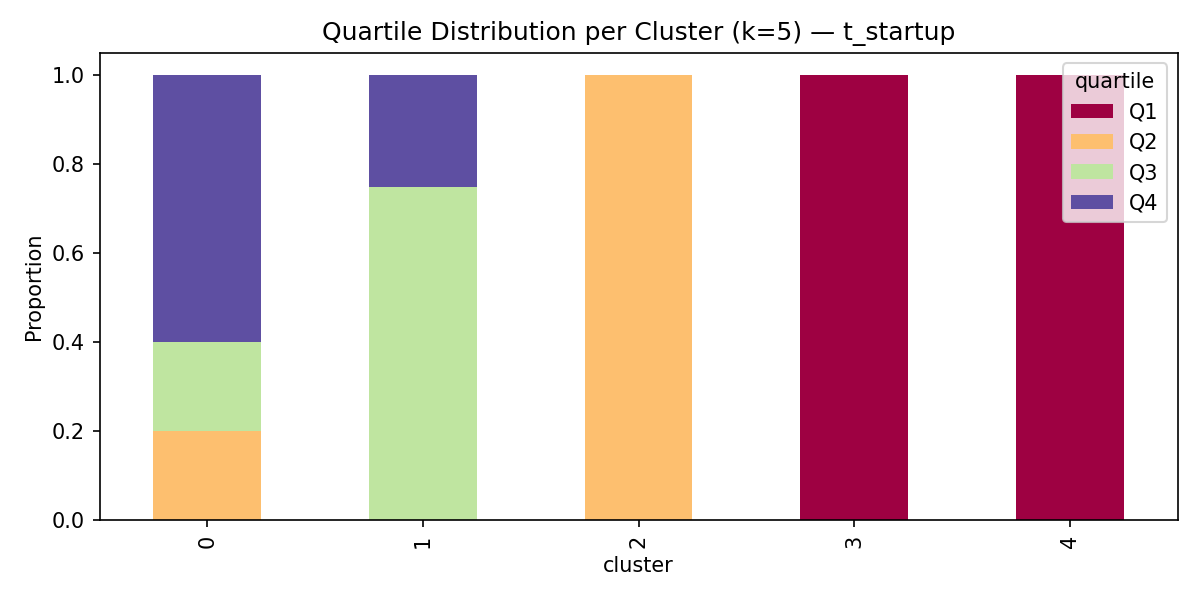
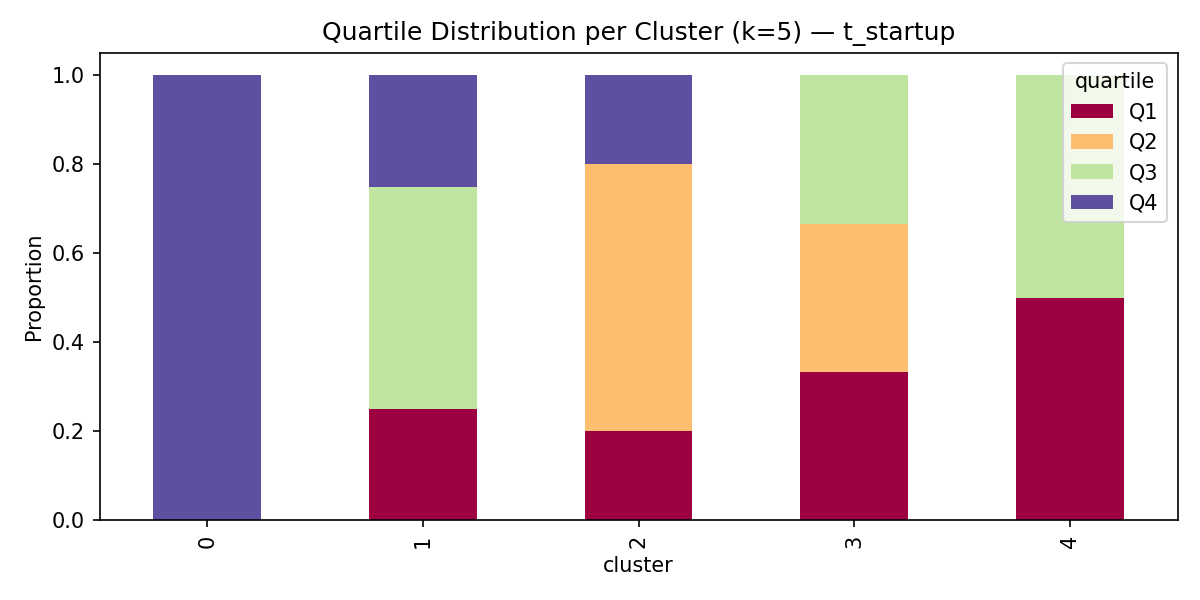
updated postprocesing + postprocessed Tseeded 6params

diff --git a/ddstartup/postprocessing/postprocess_functions.py b/ddstartup/postprocessing/postprocess_functions.py
@@ -18,6 +18,8 @@ except ImportError:
 def find_latest_output_folder(outputs_dir):
     """
     Find the most recent output folder in the outputs directory.
+    Prioritizes folders with timestamp prefixes (YYYYMMDD_HHMMSS format),
+    then falls back to filesystem creation time.
     
     Args:
         outputs_dir: Path to outputs directory
@@ -25,14 +27,29 @@ def find_latest_output_folder(outputs_dir):
     Returns:
         Tuple of (folder_path, h5_files) or (None, None) if not found
     """
+    import re
+    
     # Find all directories (excluding hidden dirs)
     folders = [d for d in outputs_dir.iterdir() if d.is_dir() and not d.name.startswith('.')]
     
     if not folders:
         return None, None
     
-    # Sort by modification time, most recent first
-    folders.sort(key=lambda x: x.stat().st_mtime, reverse=True)
+    # Sort by timestamp in folder name if present, otherwise by creation time
+    def sort_key(path):
+        # Try to extract timestamp from folder name (YYYYMMDD_HHMMSS format)
+        match = re.match(r'(\d{8})_(\d{6})', path.name)
+        if match:
+            # Return timestamp as sortable string (YYYYMMDDHHMMSS)
+            return (1, match.group(1) + match.group(2))  # Priority 1 (highest)
+        else:
+            # Fall back to filesystem creation time for folders without timestamp
+            stat = path.stat()
+            # Use st_birthtime if available (macOS), otherwise st_mtime (best proxy on Linux)
+            ctime = getattr(stat, 'st_birthtime', stat.st_mtime)
+            return (0, ctime)  # Priority 0 (lower than named folders)
+    
+    folders.sort(key=sort_key, reverse=True)
     latest_folder = folders[0]
     
     # Find HDF5 files in the latest folder
@@ -282,8 +299,17 @@ def get_input_parameters(df, target_variable, filename=None):
             REMOVE_PARAMS = ['tau_ifc', 'tau_ofc']
     if target_variable == 't_startup':
         REMOVE_PARAMS += ['eta_th', 'capacity_factor', 'cost_of_electricity','P_aux', 'P_aux_DT_eq']
-    input_parameters = [p for p in input_parameters if p not in REMOVE_PARAMS]
-    return input_parameters
+    
+    # Filter out constant parameters (zero variance)
+    # This automatically excludes parameters with a single value across all samples
+    varying_params = []
+    for param in input_parameters:
+        if param not in REMOVE_PARAMS and param in df.columns:
+            # Check if parameter varies (std > threshold to account for floating point errors)
+            if df[param].std() > 1e-10:
+                varying_params.append(param)
+    
+    return varying_params
 
 def scale_target(df, target_variable):
     if target_variable == 'unrealized_profits':
@@ -305,11 +331,16 @@ def scale_target(df, target_variable):
 
 def get_discrete_colorscale(n_chunks):
     """
-    Returns a Plotly-compatible discrete colorscale from green to red.
+    Returns a Plotly-compatible discrete colorscale from blue to orange/red.
+    
+    This colorblind-friendly palette works for ~99% of people, including those
+    with red-green colorblindness (deuteranopia/protanopia).
+    
+    Color progression: Blue (good) → Teal → Yellow → Orange → Red (bad)
     
     Logic:
     - If n_chunks <= 7: Uses base colors with interpolation for smooth transitions
-    - If n_chunks > 7: Uses matplotlib's RdYlGn_r colormap for more colors
+    - If n_chunks > 7: Uses matplotlib's RdYlBu_r colormap for more colors
     
     Args:
         n_chunks: Number of discrete color bins
@@ -317,24 +348,25 @@ def get_discrete_colorscale(n_chunks):
     Returns:
         List of [fraction, color] pairs for Plotly colorscale
     """
-    # Improved vibrant green to red (darker green for better visibility)
+    # Colorblind-friendly blue to orange/red palette
+    # Based on ColorBrewer's RdYlBu reversed, optimized for accessibility
     base_colors = [
-        "#66FF00",  # lime green
-        "#00CC00",  # vivid green
-        "#CCFF00",  # yellow-green
-        "#FFFF00",  # yellow
-        "#FFCC00",  # gold
-        "#FF6600",  # orange
-        "#FF0000",  # red
+        "#2166AC",  # dark blue (best/lowest)
+        "#4393C3",  # medium blue
+        "#92C5DE",  # light blue
+        "#FFFFBF",  # pale yellow (neutral)
+        "#FDAE61",  # light orange
+        "#F46D43",  # orange
+        "#D73027",  # red (worst/highest)
     ]
     
     import matplotlib.colors as mcolors
     
     if n_chunks > len(base_colors):
         # Case 1: Need MORE colors than base palette
-        # Use matplotlib's RdYlGn_r (Red-Yellow-Green reversed) colormap
+        # Use matplotlib's RdYlBu_r (Red-Yellow-Blue reversed) colormap
         import matplotlib
-        cmap = matplotlib.colormaps.get_cmap('RdYlGn_r')
+        cmap = matplotlib.colormaps.get_cmap('RdYlBu_r')
         color_values = cmap(np.linspace(0, 1, n_chunks))
         color_list = [f'#{int(r*255):02x}{int(g*255):02x}{int(b*255):02x}' 
                      for r, g, b, _ in color_values]

diff --git a/ddstartup/postprocessing/plot_kmeans_functions.py b/ddstartup/postprocessing/plot_kmeans_functions.py
@@ -12,6 +12,7 @@ from pathlib import Path
 
 from sklearn.cluster import KMeans
 from sklearn.preprocessing import StandardScaler
+from ddstartup.postprocessing.postprocess_functions import get_discrete_colorscale
 
 
 def cluster_and_quartile_bar(df, inputs, target, outputs_dir, n_clusters=5, plot_name=None, save_csv=True):
@@ -32,12 +33,17 @@ def cluster_and_quartile_bar(df, inputs, target, outputs_dir, n_clusters=5, plot
     labels = kmeans.fit_predict(Xs)
     df['cluster'] = labels
 
-    # Quartiles
+    # Quartiles with consistent color scheme (green to red, matching other plots)
     df['quartile'] = pd.qcut(df[target], 4, labels=[f'Q{i+1}' for i in range(4)])
 
     ctab = pd.crosstab(df['cluster'], df['quartile'], normalize='index')
+    
+    # Get the same color scheme as KDE and other plots (green = Q1/best, red = Q4/worst)
+    colorscale = get_discrete_colorscale(4)
+    quartile_colors = [colorscale[i*2][1] for i in range(4)]  # Extract colors for Q1-Q4
+    
     fig, ax = plt.subplots(figsize=(8, 4))
-    ctab.plot.bar(stacked=True, ax=ax, colormap='Spectral')
+    ctab.plot.bar(stacked=True, ax=ax, color=quartile_colors)
     ax.set_ylabel('Proportion')
     ax.set_title(f'Quartile Distribution per Cluster (k={n_clusters}) — {target}')
     plt.tight_layout()
@@ -46,8 +52,30 @@ def cluster_and_quartile_bar(df, inputs, target, outputs_dir, n_clusters=5, plot
     plt.close()
 
     if save_csv:
+        # Save cluster centers (mean values)
         centers = pd.DataFrame(scaler.inverse_transform(kmeans.cluster_centers_), columns=X.columns)
         centers['cluster'] = range(n_clusters)
         centers.to_csv(outputs_dir / (plot_name + '_cluster_centers.csv' if plot_name else f'kmeans_centers_{target}.csv'), index=False)
+        
+        # Save cluster ranges (min, max, mean, std for each parameter)
+        ranges_data = []
+        for cluster_id in range(n_clusters):
+            cluster_mask = df['cluster'] == cluster_id
+            cluster_df = df[cluster_mask]
+            n_samples = cluster_mask.sum()
+            
+            for param in X.columns:
+                ranges_data.append({
+                    'cluster': cluster_id,
+                    'parameter': param,
+                    'min': cluster_df[param].min(),
+                    'max': cluster_df[param].max(),
+                    'mean': cluster_df[param].mean(),
+                    'std': cluster_df[param].std(),
+                    'n_samples': n_samples
+                })
+        
+        ranges_df = pd.DataFrame(ranges_data)
+        ranges_df.to_csv(outputs_dir / (plot_name + '_cluster_ranges.csv' if plot_name else f'kmeans_ranges_{target}.csv'), index=False)
 
     return kmeans, ctab

diff --git a/inputs/6params.py b/inputs/6params.py
@@ -1,0 +1,80 @@
+from utils.units_and_constants import *
+from utils.custom_classes import ParameterField
+
+
+variable_param = 10
+
+V_plasma_field = ParameterField(
+    parametrization_type="scalar", mean=141, unit=u.m**3,
+    param_points=1, name="plasma_volume"
+)
+
+T_i_field = ParameterField(
+    parametrization_type="scalar", mean=14, unit=u.keV,
+    param_points=1, name="T_i_field"
+)
+
+n_tot_field = ParameterField(
+    parametrization_type="linear", min_val=1.3e20, max_val=2.1e20, unit=u.m**(-3),
+    param_points=variable_param, name="n_tot_field"
+)
+
+tau_p_T_field = ParameterField(
+    parametrization_type="linear", min_val=0.1, max_val=5, unit=u.s,
+    param_points=variable_param, name="tau_p_T"
+)
+
+tau_p_He3_field = ParameterField(
+    parametrization_type="scalar", mean=1, unit=u.s,
+    param_points=1, name="tau_p_He3"
+)
+
+P_aux_field = ParameterField(
+    parametrization_type="linear", min_val=20, max_val=100, unit=u.MW,
+    param_points=variable_param, name="P_aux"
+)
+
+P_aux_DT_eq_field = ParameterField(
+    parametrization_type="linear", min_val=20, max_val=100, unit=u.MW,
+    param_points=variable_param, name="P_aux_DT_eq"
+)
+TBR_DT_field = ParameterField(
+    parametrization_type="linear", min_val=1.05, max_val=1.15,
+    param_points=variable_param, name="TBR_DT"
+)
+
+TBR_DDn_field = ParameterField(
+    parametrization_type="scalar", mean=1,
+    param_points=1, name="TBR_DDn"
+)
+
+tau_ifc_field = ParameterField(
+    parametrization_type="scalar", mean=6, unit=u.h,
+    param_points=1, name="tau_ifc"
+)
+
+tau_ofc_field = ParameterField(
+    parametrization_type="scalar", mean=4, unit=u.h,
+    param_points=1, name="tau_ofc"
+)
+
+# Economic parameters
+eta_th_field = ParameterField(
+    parametrization_type="scalar", mean=0.35,
+    param_points=1, name="eta_th"
+)
+
+capacity_factor_field = ParameterField(
+    parametrization_type="scalar", mean=0.7,
+    param_points=1, name="capacity_factor"
+)
+
+cost_of_electricity_field = ParameterField(
+    parametrization_type="linear", min_val=0.1, max_val=0.4, unit=1/u.kWh,
+    param_points=variable_param, name="cost_of_electricity"
+)
+
+I_target_field = ParameterField(
+    parametrization_type="linear", min_val=0.1, max_val=5, unit=u.kg,
+    param_points=variable_param, name="I_target"
+)

diff --git a/ddstartup/postprocessing/cli.py b/ddstartup/postprocessing/cli.py
@@ -68,7 +68,7 @@ from ddstartup.postprocessing.plot_parcoords_functions import generate_parcoords
 from ddstartup.postprocessing.plot_pdf_functions import generate_pdf_plot
 from ddstartup.postprocessing.plot_importance_matrix import plot_effect_size_matrix
 from ddstartup.postprocessing.plot_kmeans_functions import cluster_and_quartile_bar
-from ddstartup.postprocessing.plot_contour_functions import plot_2d_cell_mean_heatmap, plot_pairwise_contours
+from ddstartup.postprocessing.plot_contour_functions import plot_2d_cell_mean_heatmap, plot_pairwise_contours, plot_interactive_pairwise_contours
 from ddstartup.postprocessing.plot_shap_functions import generate_shap_plots
 
 # Suppress warnings
